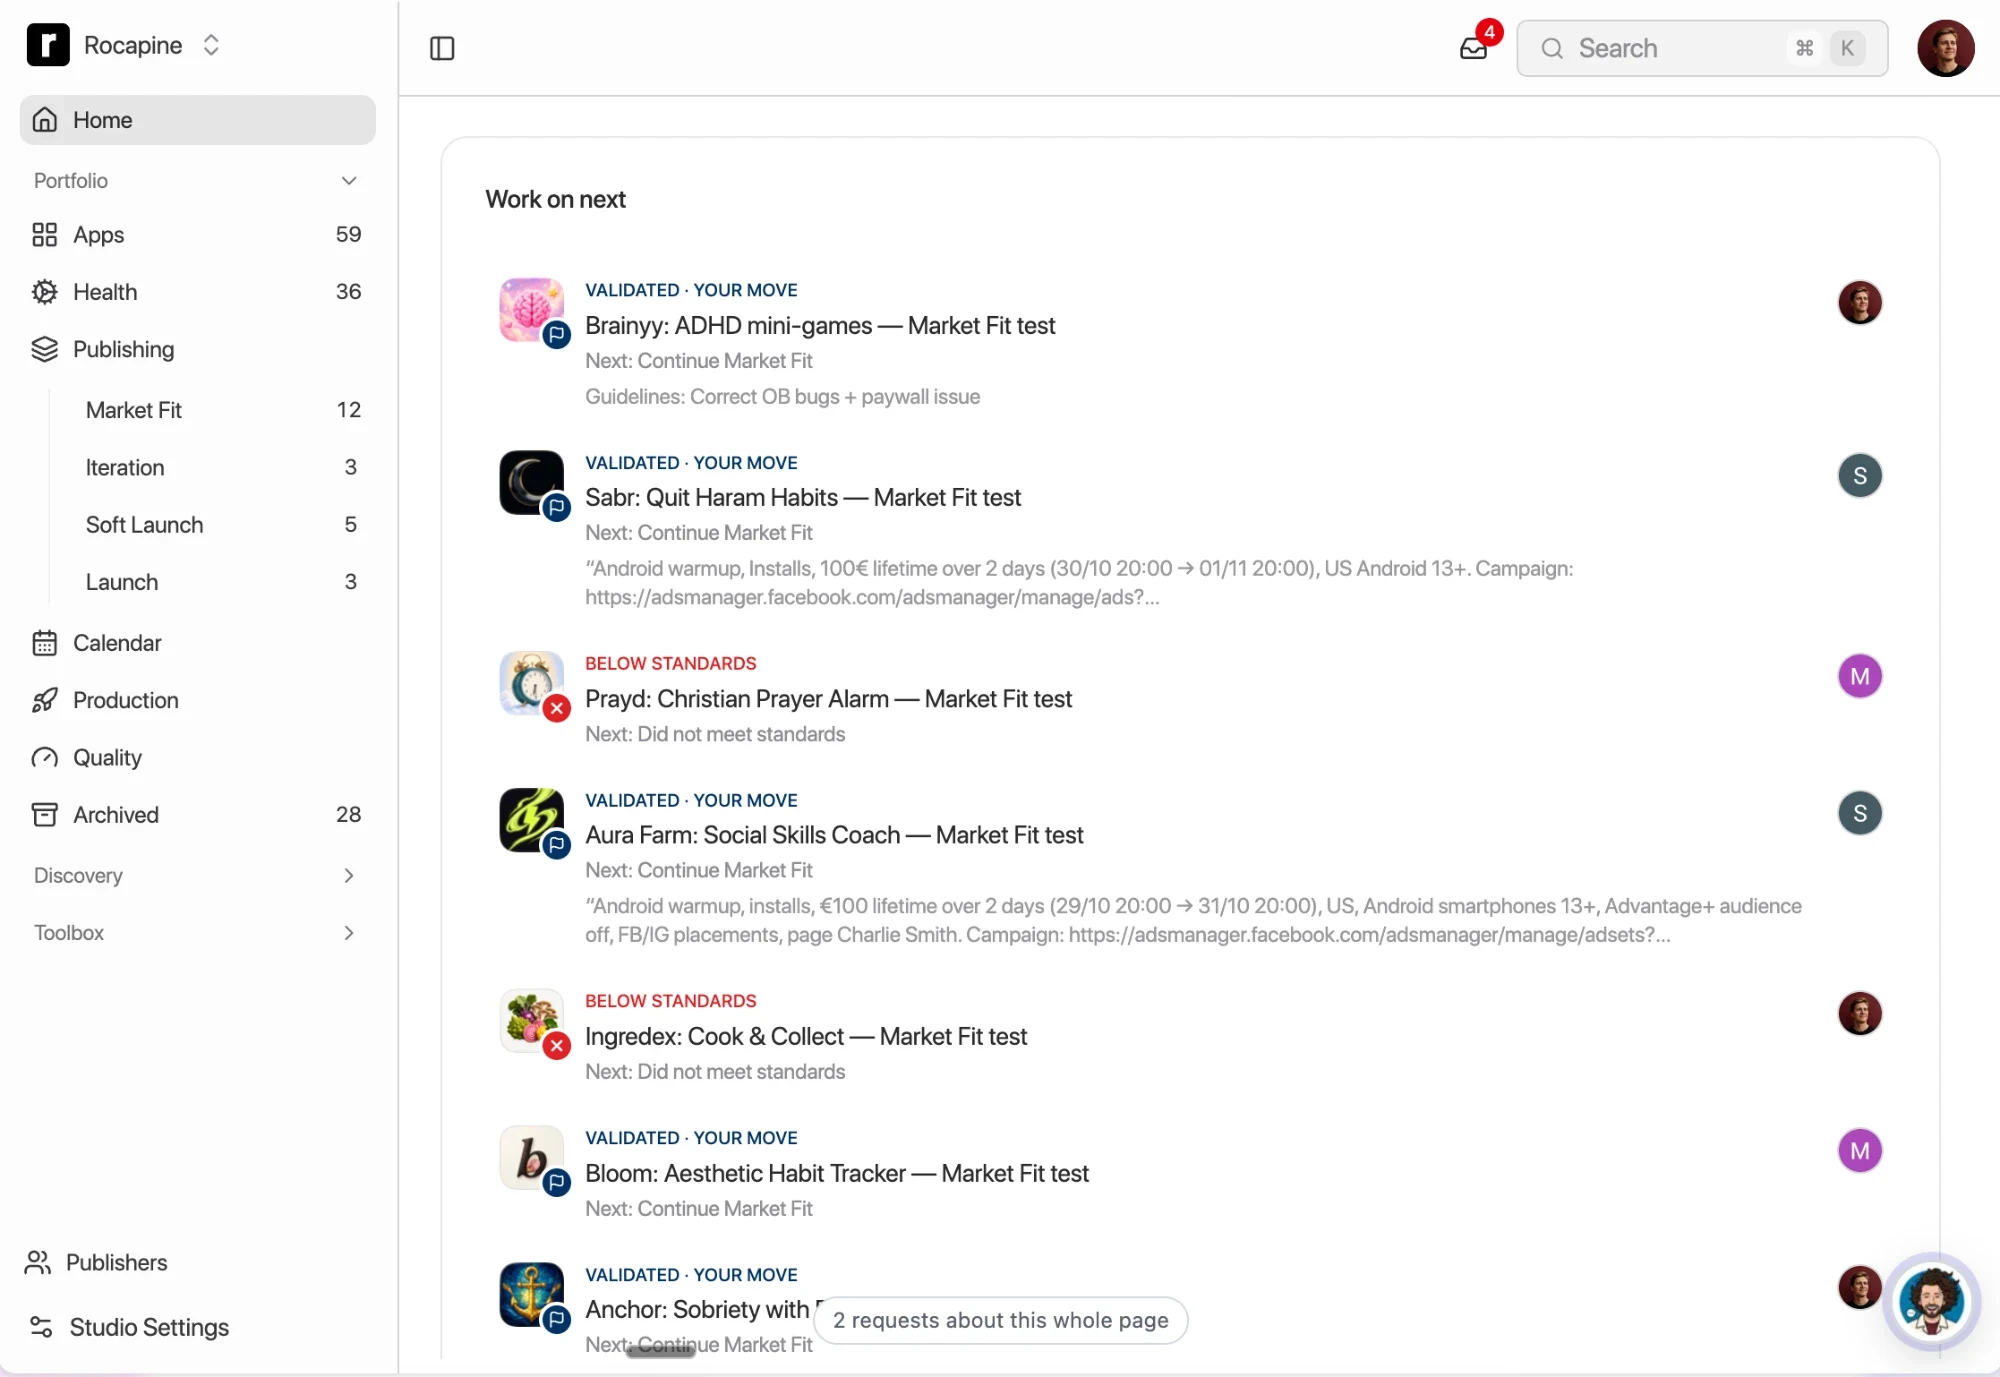
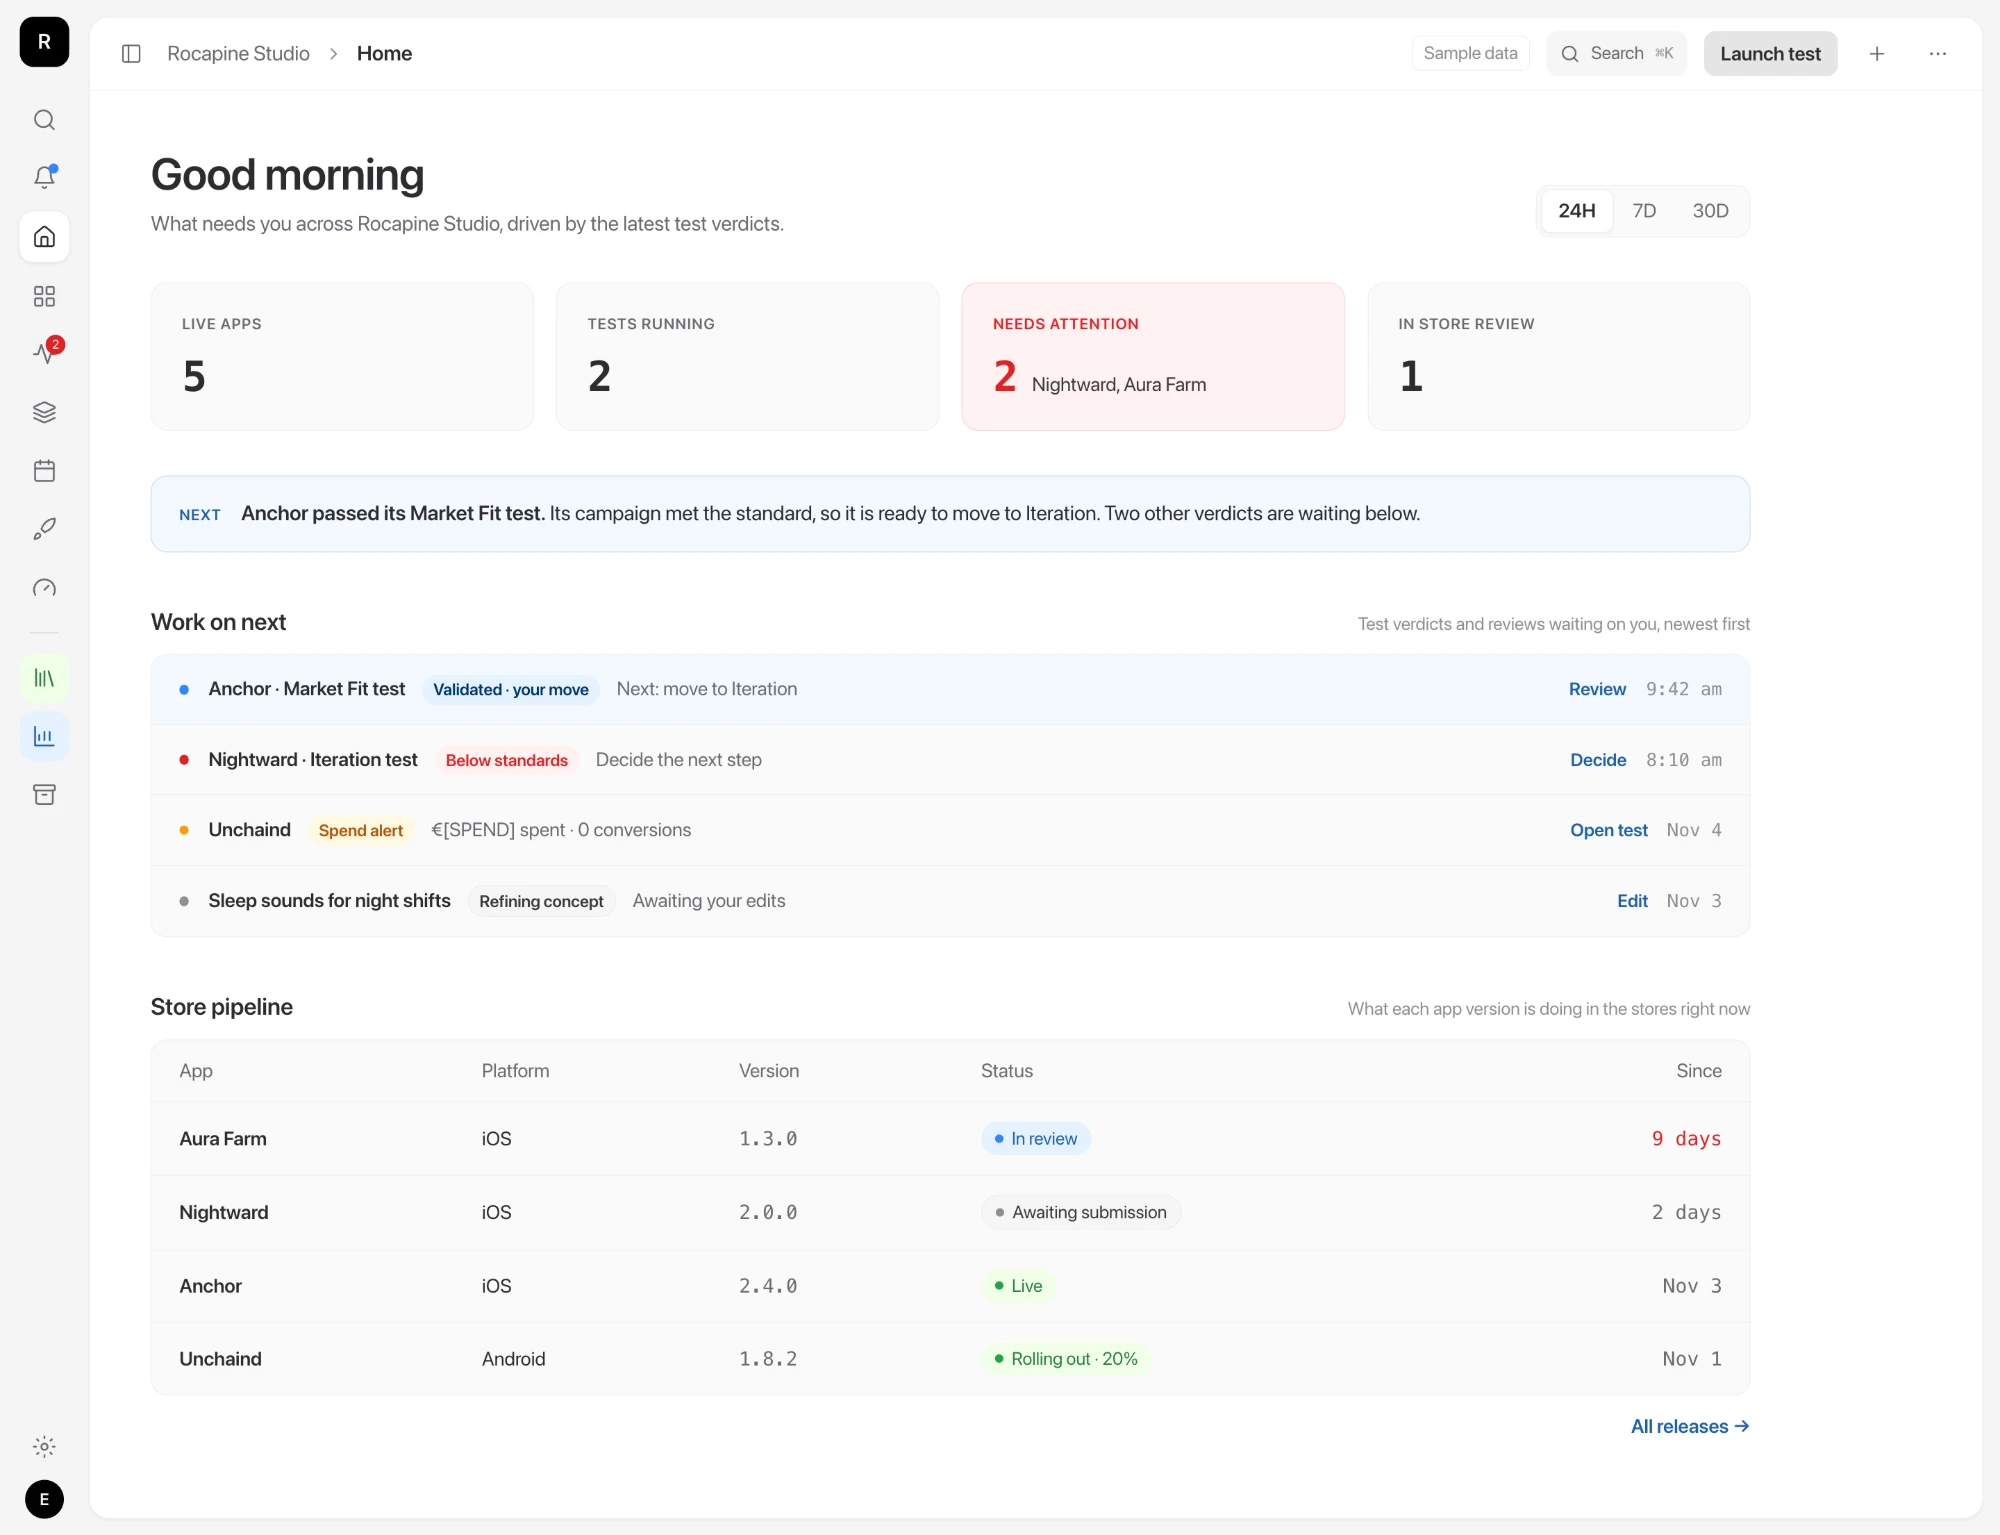
Replace publishing platform screenshots with four new views

diff --git a/lib/site-content.ts b/lib/site-content.ts
@@ -61,7 +61,7 @@ export const projects: Record<string, Project> = {
       { tag: "Branding", text: "Visual branding assets on socials (linkedin, instagram, etc.)", images: [{ src: "/projects/rocapine/socials-1.webp", caption: "socials — linkedin cover, green" }, { src: "/projects/rocapine/socials-2.webp", caption: "socials — banner, we craft apps" }, { src: "/projects/rocapine/socials-3.webp", caption: "socials — we craft apps" }] },
       { tag: "People", text: "Designed Peer Performance Review system across the company", status: "live" },
       { tag: "Product", text: "Decrease App delivery time from 2 weeks to 2 days", status: "live" },
-      { tag: "Design", text: "Publishing platform to monitor apps KPIs and share results with studios in one tool", status: "live", images: [{ src: "/projects/rocapine/publishing-platform-1.webp", caption: "publishing platform — work on next" }] },
+      { tag: "Design", text: "Publishing platform to monitor apps KPIs and share results with studios in one tool", status: "live", images: [{ src: "/projects/rocapine/publishing-platform-1.webp", caption: "publishing platform — home" }, { src: "/projects/rocapine/publishing-platform-2.webp", caption: "publishing platform — apps" }, { src: "/projects/rocapine/publishing-platform-3.webp", caption: "publishing platform — anchor overview" }, { src: "/projects/rocapine/publishing-platform-4.webp", caption: "publishing platform — testing platform" }] },
       { tag: "Branding", text: "Website iteration #3", status: "live", images: [{ src: "/projects/rocapine/website-1.webp", caption: "rocapi.ne — home screen" }, { src: "/projects/rocapine/website-2.webp", caption: "rocapi.ne — manifesto" }, { src: "/projects/rocapine/website-3.webp", caption: "rocapi.ne — values" }, { src: "/projects/rocapine/website-4.webp", caption: "rocapi.ne — team" }] },
       { tag: "Product", text: "Create internal skills to build faster app onboarding", status: "live" },
       { tag: "Product", text: "Create internal skills to reduce App Store review time", status: "live" },
